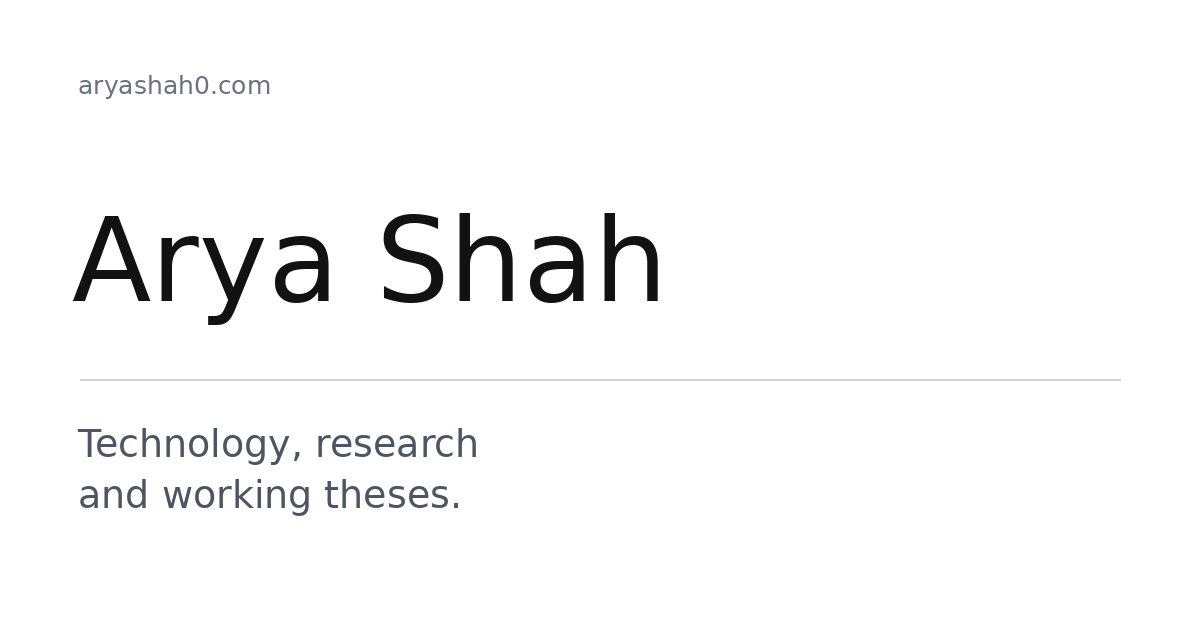
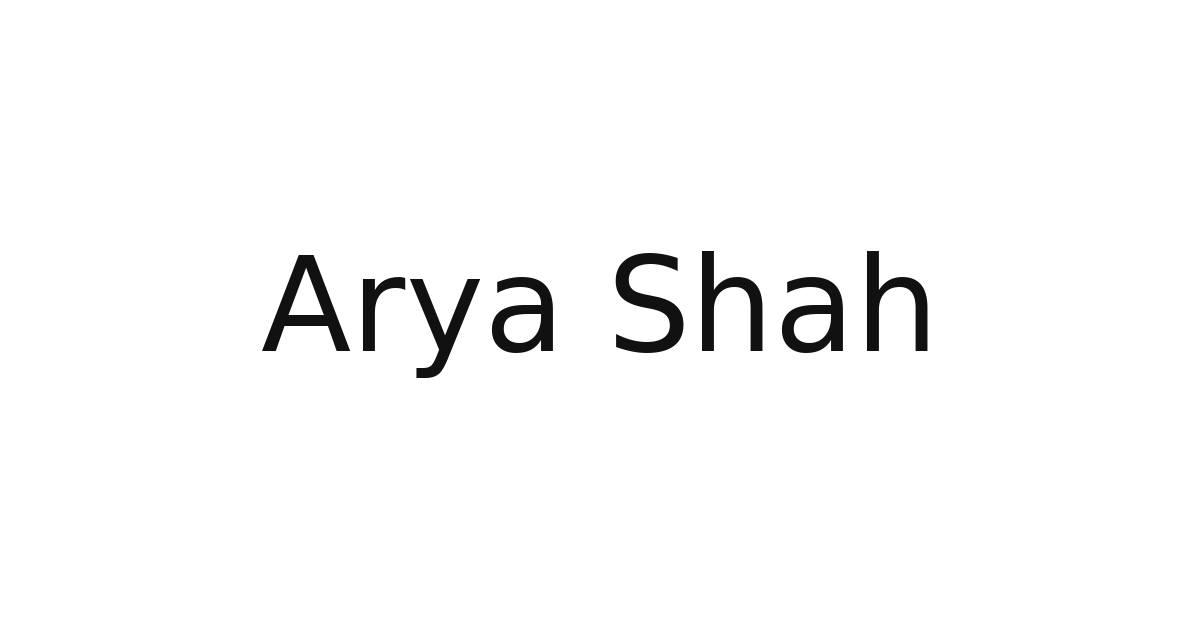
Simplify shared link preview to name only

Changed region(s): [[0.0617, 0.3317, 0.7708, 0.6032], [0.0617, 0.6635, 0.4008, 0.8143], [0.0617, 0.1206, 0.2467, 0.1508]]

diff --git a/templates/base.html b/templates/base.html
@@ -8,22 +8,23 @@
   <meta name="author" content="Arya Shah">
   <meta name="theme-color" content="#fff">
   {% if canonical_url %}
+  {% set social_description = "Arya Shah" if current == "/" else self.description() | striptags %}
   <link rel="canonical" href="{{ canonical_url }}">
   <meta property="og:site_name" content="Arya Shah">
   <meta property="og:type" content="{{ og_type }}">
   <meta property="og:title" content="{{ self.title() | striptags }}">
-  <meta property="og:description" content="{{ self.description() | striptags }}">
+  <meta property="og:description" content="{{ social_description }}">
   <meta property="og:url" content="{{ canonical_url }}">
-  <meta property="og:image" content="{{ site_url }}/social-preview.png">
+  <meta property="og:image" content="{{ site_url }}/social-preview.png?v=2">
   <meta property="og:image:type" content="image/png">
   <meta property="og:image:width" content="1200">
   <meta property="og:image:height" content="630">
-  <meta property="og:image:alt" content="Arya Shah: technology, research and working theses.">
+  <meta property="og:image:alt" content="Arya Shah">
   <meta name="twitter:card" content="summary_large_image">
   <meta name="twitter:title" content="{{ self.title() | striptags }}">
-  <meta name="twitter:description" content="{{ self.description() | striptags }}">
-  <meta name="twitter:image" content="{{ site_url }}/social-preview.png">
-  <meta name="twitter:image:alt" content="Arya Shah: technology, research and working theses.">
+  <meta name="twitter:description" content="{{ social_description }}">
+  <meta name="twitter:image" content="{{ site_url }}/social-preview.png?v=2">
+  <meta name="twitter:image:alt" content="Arya Shah">
   {% endif %}
   <link rel="stylesheet" href="/style.css">
   <link rel="icon" href="/favicon.ico" sizes="any">

diff --git a/scripts/check.py b/scripts/check.py
@@ -204,22 +204,22 @@ def main() -> int:
             "og:site_name": "Arya Shah",
             "og:type": "article" if f in theses or f in research else "website",
             "og:title": p.title,
-            "og:description": p.meta.get("description"),
+            "og:description": "Arya Shah" if f == DIST / "index.html" else p.meta.get("description"),
             "og:url": url,
-            "og:image": f"{SITE_URL}/social-preview.png",
+            "og:image": f"{SITE_URL}/social-preview.png?v=2",
+            "og:image:alt": "Arya Shah",
             "og:image:type": "image/png",
             "og:image:width": "1200",
             "og:image:height": "630",
             "twitter:card": "summary_large_image",
             "twitter:title": p.title,
-            "twitter:description": p.meta.get("description"),
-            "twitter:image": f"{SITE_URL}/social-preview.png",
+            "twitter:description": "Arya Shah" if f == DIST / "index.html" else p.meta.get("description"),
+            "twitter:image": f"{SITE_URL}/social-preview.png?v=2",
+            "twitter:image:alt": "Arya Shah",
         }
         for key, value in expected.items():
             if not value or p.meta.get(key) != value:
                 errors.append(f"{rel}: missing or incorrect {key}")
-        if not p.meta.get("og:image:alt") or p.meta.get("twitter:image:alt") != p.meta["og:image:alt"]:
-            errors.append(f"{rel}: social image alt text missing or inconsistent")
 
     image = DIST / "social-preview.png"
     if not image.exists():

diff --git a/README.md b/README.md
@@ -47,7 +47,7 @@ Responsive system sans-serif typography, with a narrow reading column for theses
 
 ## Sharing and discovery
 
-Every published page has its own canonical URL, Open Graph and X/Twitter title and description, and a shared 1200×630 preview image in `static/social-preview.png`. Titles and descriptions use the same template blocks as the page itself.
+Every published page has its own canonical URL, Open Graph and X/Twitter metadata, and a shared 1200×630 preview image in `static/social-preview.png` showing only “Arya Shah.” The homepage's sharing title and description are name-only; other pages use their page titles and descriptions. The image URL is versioned to refresh image caches when crawlers fetch the new metadata.
 
 The build generates `sitemap.xml` from published canonical pages and `robots.txt` pointing to it. Redirects, the 404 page and unpublished Building content are excluded from the sitemap. `scripts/check.py` validates these files, social metadata, and internal-link arrows.
 
